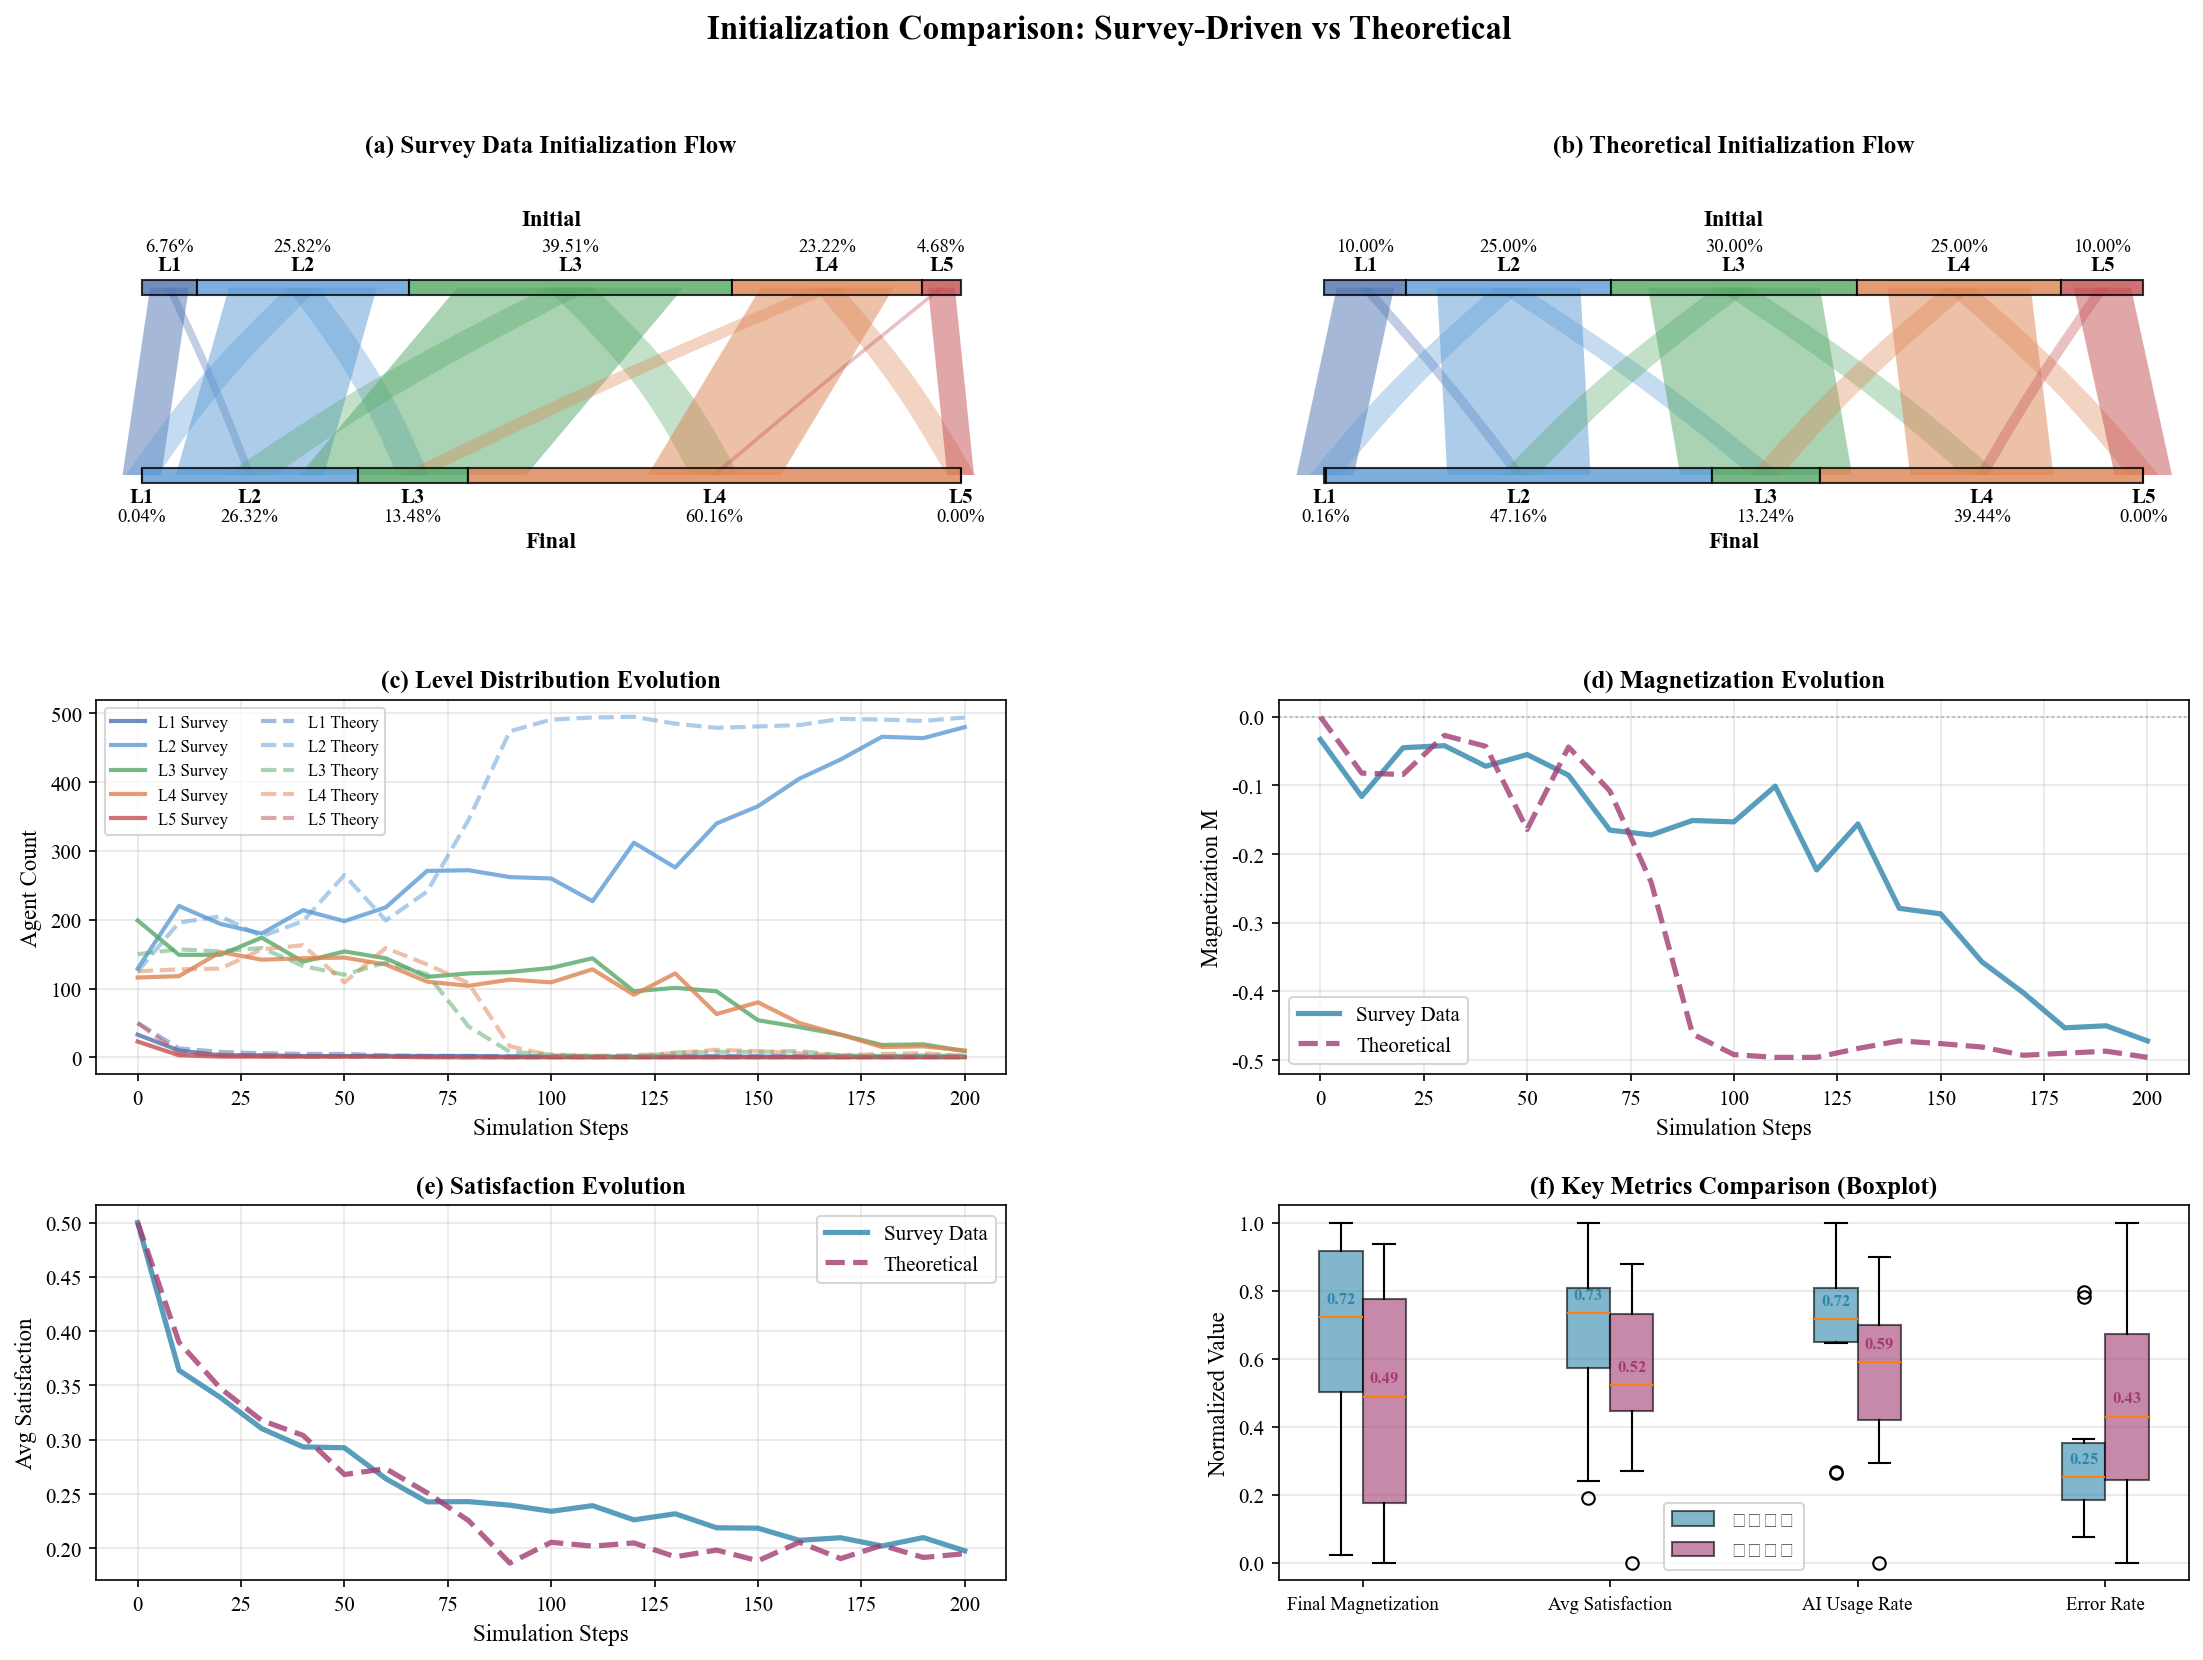
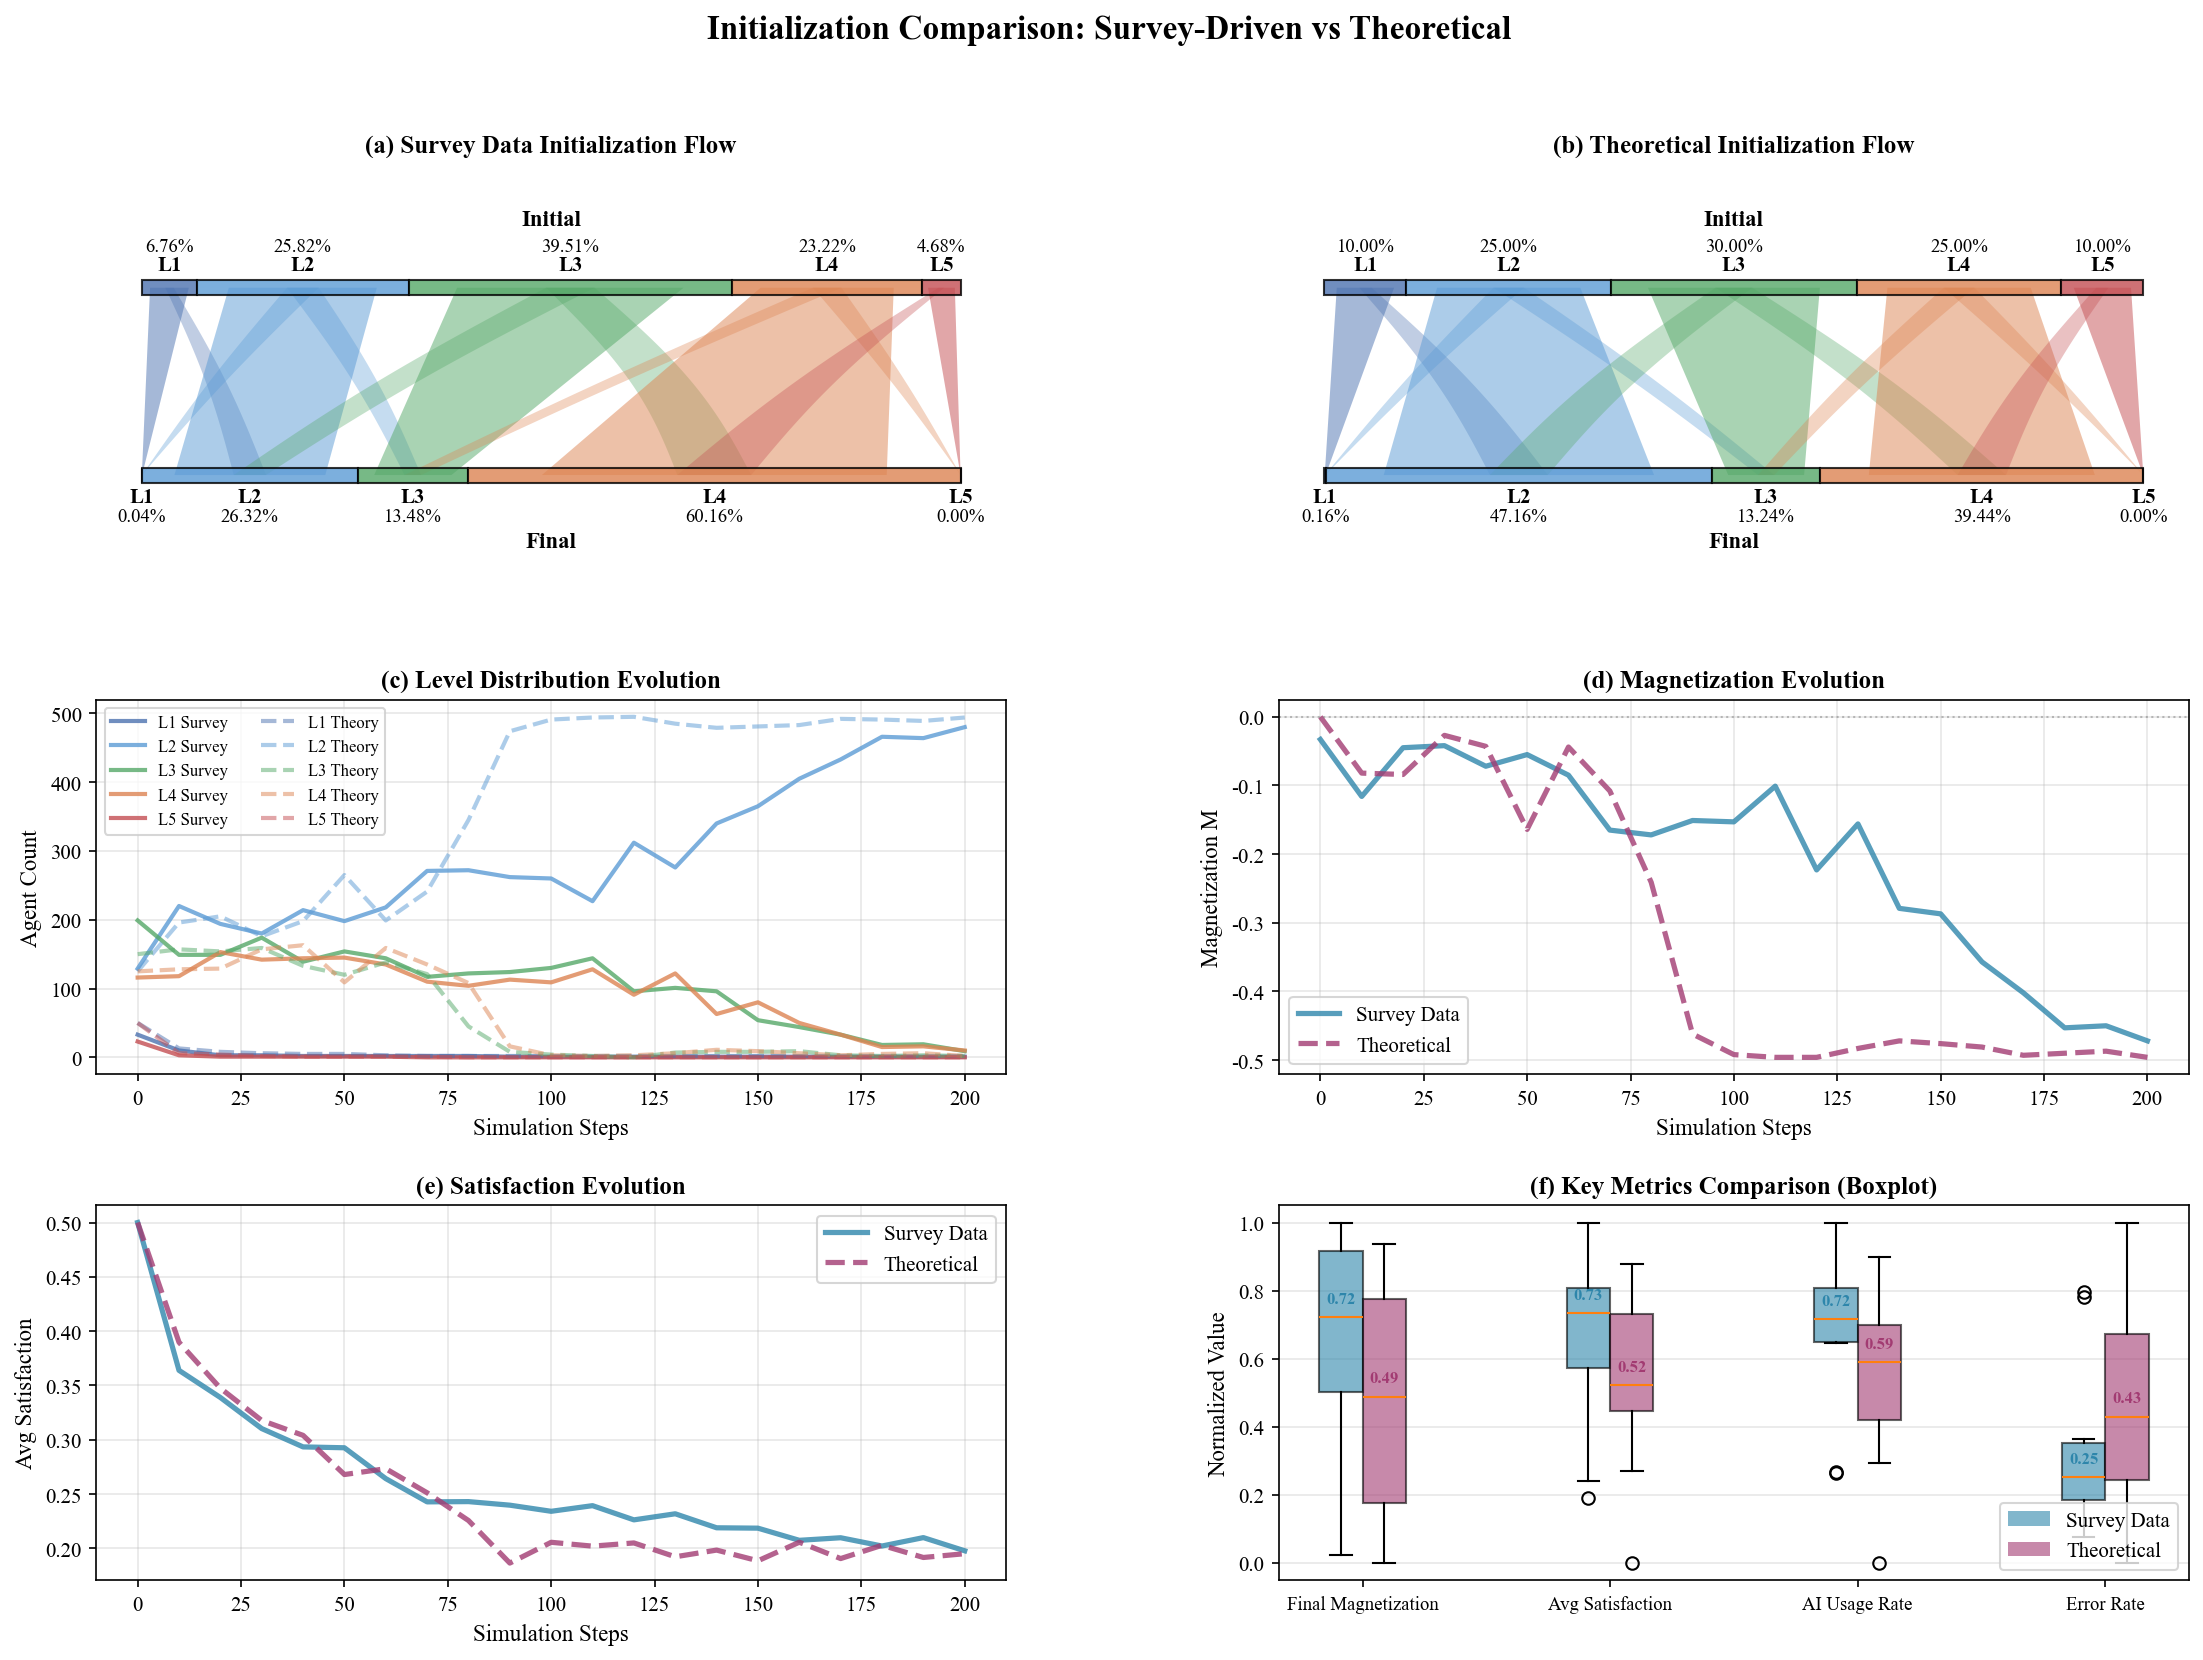
fix: 对比实验桑基图水流宽度匹配节点比例，修复箱线图图例不显示

diff --git a/abm_simulation/experiments/exp_comparison_init/visualization_comparison.py b/abm_simulation/experiments/exp_comparison_init/visualization_comparison.py
@@ -172,7 +172,7 @@ def plot_initial_to_final_sankey(ax, results, group_name, dist_key, color_main, 
         bottom_x_positions.append(center_x)
         bottom_widths.append(width)
     
-    # 绘制水流带（从上到下）
+    # 绘制水流带（从上到下），宽度从上方节点平滑过渡到下方节点
     for i in range(n_levels):
         for j in range(n_levels):
             if abs(i - j) <= 1:  # 只显示自身和相邻等级的流动
@@ -182,16 +182,22 @@ def plot_initial_to_final_sankey(ax, results, group_name, dist_key, color_main, 
                 else:
                     flow_strength = 0.15
                 
-                # 水流带宽度与初始比例和流向强度成正比
-                band_width = top_widths[i] * flow_strength
+                # 上方和下方的水流带宽度分别匹配对应节点宽度
+                band_width_top = top_widths[i] * flow_strength
+                band_width_bottom = bottom_widths[j] * flow_strength
                 
                 # 使用贝塞尔曲线创建平滑的水流效果
                 n_points = 50
                 y = np.linspace(top_y, bottom_y, n_points)
+                t = (y - top_y) / (bottom_y - top_y)  # 0→1 插值因子
+                
+                # 沿路径插值宽度
+                band_width = band_width_top + (band_width_bottom - band_width_top) * t
                 
                 # 计算中心线（带正弦曲线）
-                x_center = top_x_positions[i] + (bottom_x_positions[j] - top_x_positions[i]) * ((y - top_y) / (bottom_y - top_y))
-                x_center += band_width * 0.3 * np.sin(np.pi * (y - top_y) / (bottom_y - top_y)) * (1 if i < j else -1 if i > j else 0)
+                x_center = top_x_positions[i] + (bottom_x_positions[j] - top_x_positions[i]) * t
+                avg_bw = (band_width_top + band_width_bottom) / 2
+                x_center += avg_bw * 0.3 * np.sin(np.pi * t) * (1 if i < j else -1 if i > j else 0)
                 
                 # 左边界和右边界
                 x_left = x_center - band_width / 2
@@ -380,9 +386,9 @@ def plot_metrics_boxplot(ax, results, en=False):
     width = 0.35
     
     bp1 = ax.boxplot(survey_data_norm, positions=positions - width/2, widths=width,
-                     patch_artist=True, label='调查数据')
+                     patch_artist=True)
     bp2 = ax.boxplot(theoretical_data_norm, positions=positions + width/2, widths=width,
-                     patch_artist=True, label='理论假设')
+                     patch_artist=True)
     
     for patch in bp1['boxes']:
         patch.set_facecolor(COLORS['survey'])
@@ -395,7 +401,16 @@ def plot_metrics_boxplot(ax, results, en=False):
     ax.set_xticklabels(metric_labels, fontsize=9)
     ax.set_ylabel(text['normalized'], fontsize=11)
     ax.set_title(f'(f) {text["metrics"]}', fontsize=12, fontweight='bold')
-    ax.legend(fontsize=10)
+    
+    # 手动创建图例
+    from matplotlib.patches import Patch
+    survey_label = 'Survey Data' if en else '调查数据'
+    theory_label = 'Theoretical' if en else '理论假设'
+    legend_handles = [
+        Patch(facecolor=COLORS['survey'], alpha=0.6, label=survey_label),
+        Patch(facecolor=COLORS['theoretical'], alpha=0.6, label=theory_label)
+    ]
+    ax.legend(handles=legend_handles, fontsize=10, loc='lower right')
     ax.grid(True, axis='y', alpha=0.3)
     
     # 添加数据标签（中位数）
